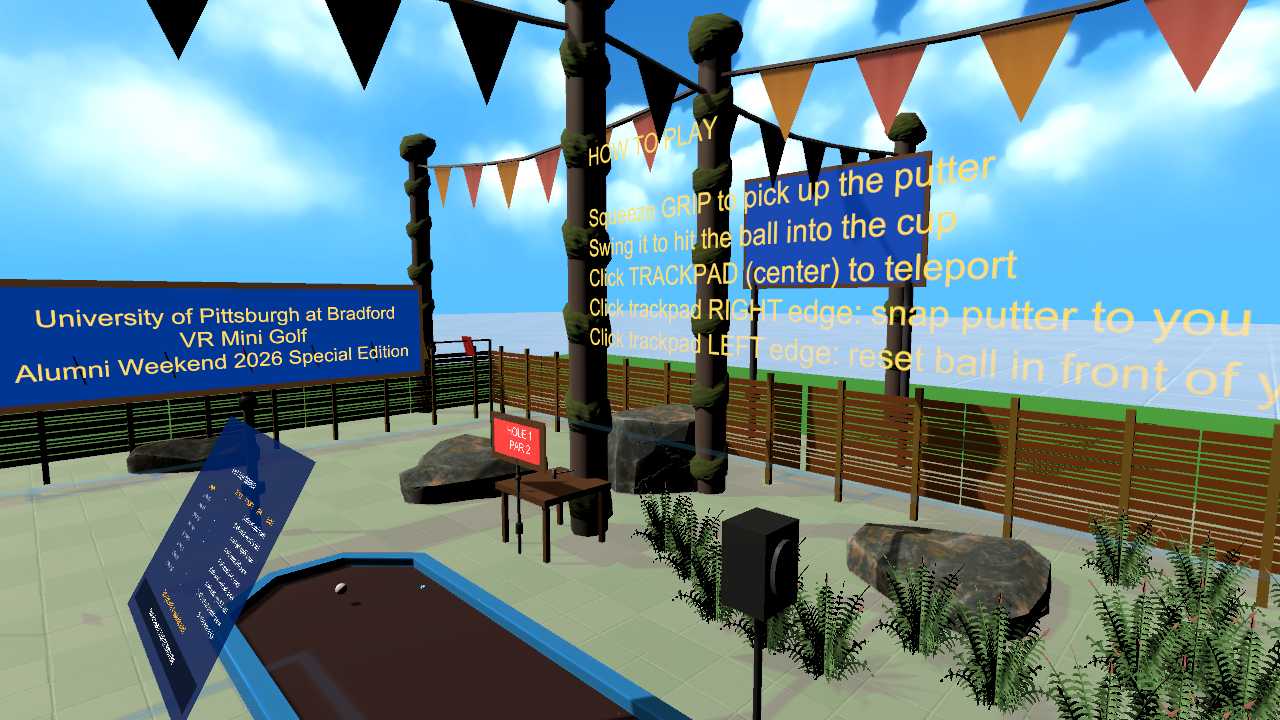
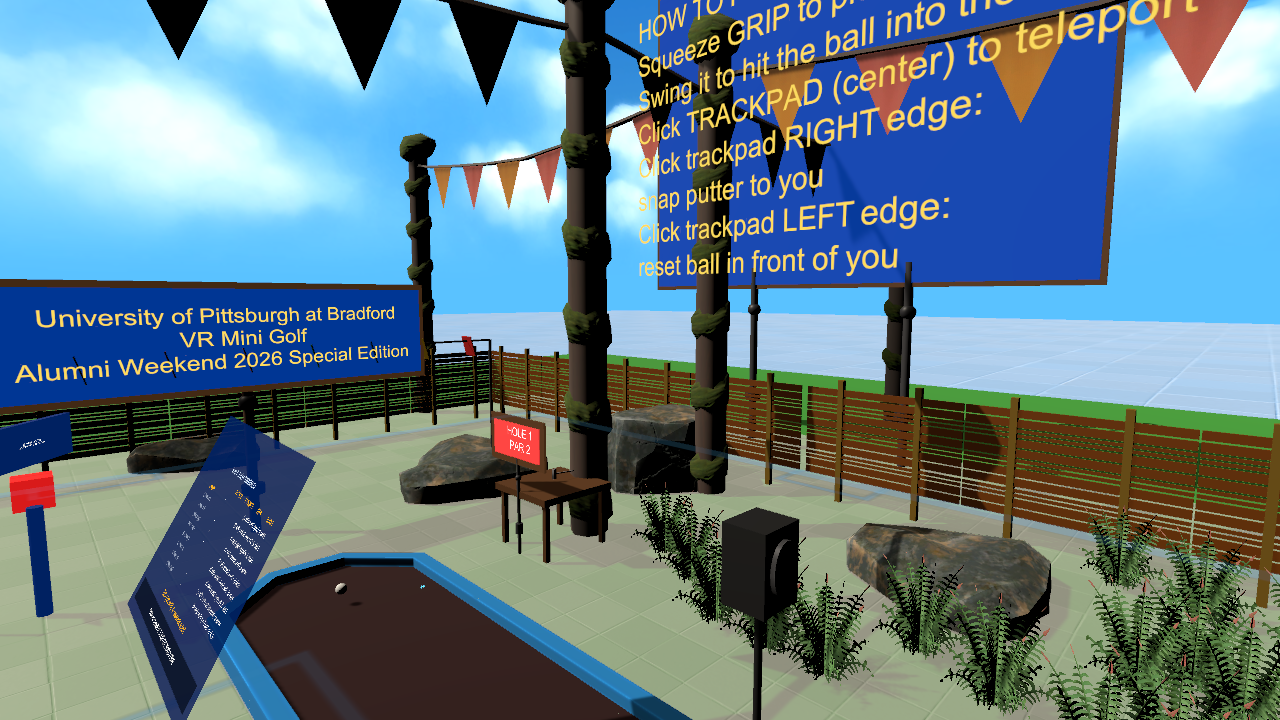
Fix 5 real bugs found from live playtesting: putter grip, reset button, instructions readability, ball disappearing, fireworks length
1. Putter grip still felt wrong when actually picked up: Throwable.
   attachmentFlags on GolfPutter_VR was 44 (TurnOnKinematic |
   ParentToHand | DetachFromOtherHand), missing SnapOnAttach and
   DetachOthers from Valve's own tested Hand.defaultAttachmentFlags.
   Realigned to that default so the grab snaps deterministically to
   the Grip attachmentOffset instead of drifting.

2. Reset button did nothing when pressed: the button-building script
   had deleted the stock ButtonEffect component, but Unity's prefab-
   instance override recorded the resulting dangling onButtonDown/
   onButtonUp persistent listeners as m_Target: {fileID: 0} instead of
   removing them. A UnityEvent invoking a persistent call whose target
   is null throws mid-Invoke(), aborting before it ever reached
   ResetRoundButton's own dynamically-added listener. Confirmed exactly
   one dangling listener on each event in the saved scene data.
   UnityEventTools.RemovePersistentListener wasn't enough to actually
   fix it (re-nulls the slot but doesn't shrink the array, so it comes
   right back on the next save) -- had to go through SerializedObject
   and set m_PersistentCalls.m_Calls.arraySize to 0 directly.

3. Instructions sign unreadable: the board was sized for far less text
   than it actually holds (15 lines once blank spacers are counted),
   so most lines floated directly against the sky with no backing.
   Tightened the copy to 8 still-wrapped lines and grew the board to
[…]

diff --git a/GolfVR/GolfVR/Assets/Editor/BugFixVerificationTest.cs b/GolfVR/GolfVR/Assets/Editor/BugFixVerificationTest.cs
@@ -1,0 +1,193 @@
+using System.Reflection;
+using UnityEditor;
+using UnityEditor.SceneManagement;
+using UnityEngine;
+
+namespace GolfVR.EditorTools
+{
+    /// <summary>
+    /// Verifies the four bugs reported after real playtesting are actually
+    /// fixed: the ball no longer gets force-teleported into the cup on a
+    /// real (non-debug) sink, the debug force-sink still visually snaps the
+    /// ball safely, the reset button's onButtonDown event now has zero
+    /// dangling persistent listeners and its dynamic listener still fires,
+    /// and the putter's attachment flags match Valve's tested default.
+    /// </summary>
+    public static class BugFixVerificationTest
+    {
+        private const BindingFlags PrivateInstance = BindingFlags.NonPublic | BindingFlags.Instance;
+        private static int _failures;
+
+        [MenuItem("Tools/GolfVR/Bug Fix Verification Test")]
+        public static void Run()
+        {
+            _failures = 0;
+            EditorSceneManager.OpenScene("Assets/Scenes/MiniGolf_AlumniCourse_v3.unity", OpenSceneMode.Single);
+
+            MiniGolfGameManager manager = Object.FindObjectOfType<MiniGolfGameManager>();
+            GolfBall ball = Object.FindObjectOfType<GolfBall>();
+            GolfPutter putter = Object.FindObjectOfType<GolfPutter>();
+
+            Invoke(ball, "Awake");
+            Invoke(ball, "Start");
+            if (putter != null) Invoke(putter, "Awake");
+            foreach (GolfHole h in manager.holes)
+            {
+                if (h != null) Invoke(h, "Awake");
+            }
+            Invoke(manager, "Awake");
+            Invoke(manager, "Start");
+
+            TestRealSinkDoesNotTeleportBall(manager, ball);
+            TestDebugSinkSafelySnapsBall(manager, ball);
+            TestResetButtonHasNoDanglingListeners();
+            TestResetButtonStillFires(manager);
+            TestPutterAttachmentFlags();
+
+            if (_failures == 0)
+            {
+                Debug.Log("[BugFixVerify] RESULT: PASS - all reported bugs verified fixed.");
+            }
+            else
+            {
+                Debug.LogError($"[BugFixVerify] RESULT: FAIL - {_failures} check(s) failed.");
+            }
+        }
+
+        private static void TestRealSinkDoesNotTeleportBall(MiniGolfGameManager manager, GolfBall ball)
+        {
+            manager.InitializeRound();
+            GolfHole hole = manager.holes[0];
+
+            // Simulate the ball rolling to a rest point 0.3m away from the
+            // cup center (well within the 0.6m sink threshold, but NOT
+            // exactly on top of it) -- the real gameplay case.
+            Vector3 restSpot = hole.transform.position + new Vector3(0.3f, 0f, 0f);
+            ball.transform.position = restSpot;
+
+            MethodInfo onTriggerStay = typeof(GolfHole).GetMethod("OnTriggerStay", PrivateInstance);
+            onTriggerStay.Invoke(hole, new object[] { ball.GetComponent<Collider>() });
+
+            float dist = Vector3.Distance(ball.transform.position, restSpot);
+            if (dist < 0.01f)
+            {
+                Debug.Log("[BugFixVerify] Real sink: OK (ball position untouched, stayed where it rolled to rest).");
+            }
+            else
+            {
+                _failures++;
+                Debug.LogError($"[BugFixVerify] Real sink: FAIL - ball moved {dist:F3}m from its rest spot (should be 0, a real sink must not force-teleport the ball).");
+            }
+        }
+
+        private static void TestDebugSinkSafelySnapsBall(MiniGolfGameManager manager, GolfBall ball)
+        {
+            manager.InitializeRound();
+            GolfHole hole = manager.holes[0];
+            ball.transform.position = new Vector3(999f, 999f, 999f); // clearly not near the hole
+
+            manager.DebugSinkCurrentHole();
+
+            float dist = Vector3.Distance(ball.transform.position, hole.transform.position);
+            if (dist < 1.0f)
+            {
+                Debug.Log($"[BugFixVerify] Debug sink: OK (ball snapped to within {dist:F2}m of the cup via safe raycast placement).");
+            }
+            else
+            {
+                _failures++;
+                Debug.LogError($"[BugFixVerify] Debug sink: FAIL - ball is {dist:F2}m from the cup, expected < 1m.");
+            }
+        }
+
+        private static void TestResetButtonHasNoDanglingListeners()
+        {
+            GameObject kiosk = GameObject.Find("ResetRoundKiosk");
+            Valve.VR.InteractionSystem.HoverButton hoverButton = kiosk != null ? kiosk.GetComponentInChildren<Valve.VR.InteractionSystem.HoverButton>() : null;
+            if (hoverButton == null)
+            {
+                _failures++;
+                Debug.LogError("[BugFixVerify] Reset button listeners: FAIL - HoverButton not found.");
+                return;
+            }
+
+            int downCount = hoverButton.onButtonDown.GetPersistentEventCount();
+            int upCount = hoverButton.onButtonUp.GetPersistentEventCount();
+            if (downCount == 0 && upCount == 0)
+            {
+                Debug.Log("[BugFixVerify] Reset button listeners: OK (0 persistent listeners on onButtonDown/onButtonUp, no dangling null targets).");
+            }
+            else
+            {
+                _failures++;
+                Debug.LogError($"[BugFixVerify] Reset button listeners: FAIL - onButtonDown has {downCount}, onButtonUp has {upCount} persistent listener(s) (expected 0).");
+            }
+        }
+
+        private static void TestResetButtonStillFires(MiniGolfGameManager manager)
+        {
+            manager.InitializeRound();
+            SetField(manager, "_currentHoleIndex", 4);
+
+            GameObject kiosk = GameObject.Find("ResetRoundKiosk");
+            ResetRoundButton resetButton = kiosk != null ? kiosk.GetComponentInChildren<ResetRoundButton>() : null;
+            if (resetButton == null)
+            {
+                _failures++;
+                Debug.LogError("[BugFixVerify] Reset button fires: FAIL - ResetRoundButton component not found.");
+                return;
+            }
+            Invoke(resetButton, "Awake");
+
+            Valve.VR.InteractionSystem.HoverButton hoverButton = kiosk.GetComponentInChildren<Valve.VR.InteractionSystem.HoverButton>();
+            hoverButton.onButtonDown.Invoke(null); // exactly what HandHoverUpdate calls on a real press
+
+            if (manager.CurrentHoleIndex == 0)
+            {
+                Debug.Log("[BugFixVerify] Reset button fires: OK (onButtonDown.Invoke correctly reset CurrentHoleIndex to 0).");
+            }
+            else
+            {
+                _failures++;
+                Debug.LogError($"[BugFixVerify] Reset button fires: FAIL - CurrentHoleIndex is {manager.CurrentHoleIndex}, expected 0 after pressing.");
+            }
+        }
+
+        private static void TestPutterAttachmentFlags()
+        {
+            GameObject putterGo = GameObject.Find("GolfPutter_VR");
+            Valve.VR.InteractionSystem.Throwable throwable = putterGo != null ? putterGo.GetComponent<Valve.VR.InteractionSystem.Throwable>() : null;
+            if (throwable == null)
+            {
+                _failures++;
+                Debug.LogError("[BugFixVerify] Putter attachment flags: FAIL - Throwable not found.");
+                return;
+            }
+
+            bool hasSnap = (throwable.attachmentFlags & Valve.VR.InteractionSystem.Hand.AttachmentFlags.SnapOnAttach) != 0;
+            if (hasSnap)
+            {
+                Debug.Log($"[BugFixVerify] Putter attachment flags: OK ({throwable.attachmentFlags}, includes SnapOnAttach).");
+            }
+            else
+            {
+                _failures++;
+                Debug.LogError($"[BugFixVerify] Putter attachment flags: FAIL - {throwable.attachmentFlags} is missing SnapOnAttach.");
+            }
+        }
+
+        private static void Invoke(object target, string methodName)
+        {
+            if (target == null) return;
+            MethodInfo m = target.GetType().GetMethod(methodName, PrivateInstance);
+            if (m == null) return;
+            m.Invoke(target, null);
+        }
+
+        private static void SetField(object target, string name, object value)
+        {
+            FieldInfo f = target.GetType().GetField(name, PrivateInstance);
+            f.SetValue(target, value);
+        }
+    }
+}

diff --git a/GolfVR/GolfVR/Assets/Scripts/GolfHole.cs b/GolfVR/GolfVR/Assets/Scripts/GolfHole.cs
@@ -90,16 +90,28 @@ namespace GolfVR
             float dist = Vector3.Distance(ball.transform.position, transform.position);
             if (dist < 0.6f)
             {
-                Sink(ball);
+                Sink(ball, snapBallToHole: false);
             }
         }
 
-        private void Sink(GolfBall ball)
+        private void Sink(GolfBall ball, bool snapBallToHole)
         {
             _isCompleted = true;
             if (ball != null)
             {
-                ball.transform.position = transform.position;
+                if (snapBallToHole)
+                {
+                    // Only used by the debug force-sink path, where the ball
+                    // hasn't actually rolled into the cup and needs a visual
+                    // nudge. SpawnAtTee raycasts down to the real surface
+                    // first -- directly teleporting to transform.position
+                    // (the hole trigger's own anchor, which can sit at or
+                    // below the green's solid collider) used to embed the
+                    // ball in that geometry, and the physics engine would
+                    // violently eject it out of view on the next physics
+                    // step the instant it settled here.
+                    ball.SpawnAtTee(transform.position);
+                }
                 ball.StopBall();
             }
 
@@ -152,7 +164,7 @@ namespace GolfVR
                 ball = FindObjectOfType<GolfBall>();
             }
 
-            Sink(ball);
+            Sink(ball, snapBallToHole: true);
         }
 
         public void PlayCelebration()

diff --git a/GolfVR/GolfVR/Docs/README.md b/GolfVR/GolfVR/Docs/README.md
@@ -19,7 +19,7 @@ These are also shown in-course on the "HOW TO PLAY" sign near Hole 1.
 - **9-hole course** with per-hole tee signs, par, and named holes ("Long Drive", "Chicane Slalom", "Windmill Gauntlet", ... "The Final Roar" for the Hole 9 finale).
 - **Scoreboard** (world-space canvas) tracks strokes/par per hole and follows the player to whichever hole is active, showing a live "HOLE X COMPLETE!" banner with score terms (Hole in One, Eagle, Birdie, Par, Bogey) after each sink.
 - **Beginner-friendly reset buttons** (`QuickResetController`) repurpose the unused SteamVR snap-turn actions: one snaps the putter back in front of the player, the other resets the ball in front of the player.
-- **Fireworks celebration**: every hole sunk triggers confetti + victory fanfare (as before) plus a new sequence — the sky fades to a night skybox, a few colorful firework bursts go off with light flashes, two procedural horn blasts play, then it fades back to day (`FireworksCelebrationController`).
+- **Fireworks celebration**: every hole sunk triggers confetti + victory fanfare (as before) plus a new sequence — the sky fades to a night skybox, 9 colorful firework bursts go off over ~7 seconds with light flashes, two procedural horn blasts play, then it fades back to day (`FireworksCelebrationController`).
 - **Out-of-bounds handling**: a ball that falls off course gets a penalty stroke and resets to its last rest position.
 - **Reset-for-next-group kiosk**: a physical push-button near the entrance plaza (`ResetRoundButton`, built on SteamVR's own proven push-button interaction rather than a hand-rolled one) lets event staff reset the whole round — scores, ball, and putter all snapped back to Hole 1 — between groups without relaunching the app.
 
@@ -65,6 +65,7 @@ unity run <project-path> --editor-version 2022.3.62f3 -- -executeMethod <FullMet
 | Capture Scene Screenshot | `GolfVR.EditorTools.SceneCameraCapture.Capture` | Renders one still from an arbitrary camera pose (`-shotPos`, `-shotLookAt`, `-shotFov`, `-shotOut`) — the only way to get visual feedback on scene changes without a live Editor. |
 | Capture Prefab Preview | `GolfVR.EditorTools.SceneCameraCapture.CapturePrefabPreview` | Instantiates a prefab (`-prefabPath`) and auto-frames a shot of it, without saving — for checking an asset's real look/scale before committing to using it. |
 | Capture Documentation Screenshots | `GolfVR.EditorTools.DocumentationScreenshots.Run` | Regenerates all six screenshots above into `Docs/Screenshots/`. |
+| Bug Fix Verification Test | `GolfVR.EditorTools.BugFixVerificationTest.Run` | Regression test for the four bugs reported from real playtesting (below): a real sink no longer teleports the ball, a debug sink still snaps it safely, the reset button has no dangling event listeners and still fires, and the putter's attachment flags include `SnapOnAttach`. |
 
 ### Manually testing the sink/celebration flow
 
@@ -89,8 +90,12 @@ Working entirely headless (no live Editor / VR headset available for direct test
 4. **Background ground plane rendered as a broken blue checkerboard** — the "Floor" plane had picked up an alpha-cutout rock material instead of a tileable ground texture. Restored it to match its sibling "floor far" plane.
 5. **Scoreboard read backwards from the tee** — same class of bug as #2: `SetupHole()`'s `Quaternion.LookRotation` pointed the board's *unreadable* side at the player standing at the tee. Found via the `05_scoreboard_and_banner.png` screenshot above (first capture showed fully mirrored text); fixed by flipping the look-at direction.
 6. **New props inherit the same two pitfalls automatically** — while building the reset kiosk (#3 and #5's root causes, generalized): its label board came out solid black until made emissive like every other sign, and its `LookRotation` (aimed at a ground-level reference point from 1.65m up) pitched the whole board into a tilted lectern angle instead of just yawing it to face the right way. Both fixed the same way as the originals; worth remembering for any future sign/label.
+7. **Ball disappeared after a hole was sunk** — a real bug introduced by refactoring `OnTriggerStay`'s inline sink logic into a shared `Sink()` helper for the debug force-sink feature: the refactor accidentally made *every* sink (not just debug-forced ones) teleport the ball to `transform.position` (the hole trigger's own anchor point, which can sit at or below the green's solid collider). A ball teleported into overlapping solid geometry gets violently ejected by the physics engine on the next step — looking exactly like it "disappeared." Fixed by only snapping the ball's position for the debug path, and doing that snap through `GolfBall.SpawnAtTee()` (which raycasts down to the real surface first) instead of a raw position assignment.
+8. **Putter grip attach point wrong** — `Throwable.attachmentFlags` on the putter was `44` (`TurnOnKinematic | ParentToHand | DetachFromOtherHand`), missing `SnapOnAttach` and `DetachOthers` from Valve's own tested `Hand.defaultAttachmentFlags`. Realigned to the documented default so the grab snaps deterministically to the `attachmentOffset` (the Grip transform) instead of drifting.
+9. **Reset button did nothing when pressed** — the `AddResetRoundButton` build script had deleted the stock `ButtonEffect` component (to replace its hardcoded revert-to-white with `ResetRoundButton`'s real-color restore), but Unity's prefab-instance override recorded the now-dangling `onButtonDown`/`onButtonUp` persistent listeners as `m_Target: {fileID: 0}` instead of actually removing them. A `UnityEvent` invoking a persistent call whose target is null throws mid-`Invoke()`, which aborted the call before it ever reached `ResetRoundButton`'s own dynamically-added listener — so the button never did anything. Confirmed by finding exactly one dangling listener on each event in the saved scene data. `UnityEventTools.RemovePersistentListener` turned out not to be enough to fix this on an already-diverged prefab instance (it re-nulls the slot but doesn't shrink the array, so the dangling call comes right back on the next save); actually clearing it required going through `SerializedObject`/`SerializedProperty` and setting `m_PersistentCalls.m_Calls.arraySize` to 0 directly.
+10. **Instructions board too small for its own text** — the "HOW TO PLAY" board was sized for far less text than it actually holds (15 lines once every blank spacer line is counted); most lines floated directly against the sky with no backing at all. Tightened the copy to 8 lines (still wrapped so no single line is too wide) and grew the board to comfortably fit them, resizing the text and frame to preserve their original absolute (world-space) size rather than just inheriting the bigger board's scale.
 
-If you notice anything else that looks wrong in a live headset session that these tools didn't catch, it's worth adding as a case to `ExtendedFeatureTest` so it stays caught.
+If you notice anything else that looks wrong in a live headset session that these tools didn't catch, it's worth adding as a case to `ExtendedFeatureTest` or `BugFixVerificationTest` so it stays caught.
 
 ## Known limitations
 
